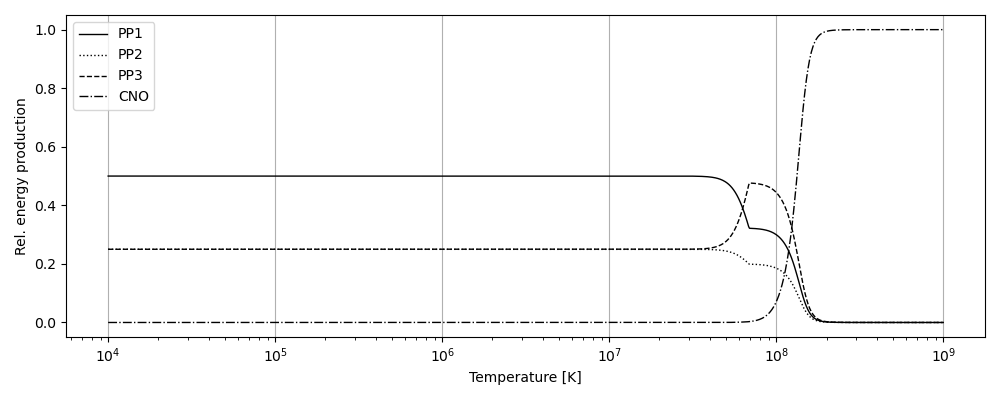
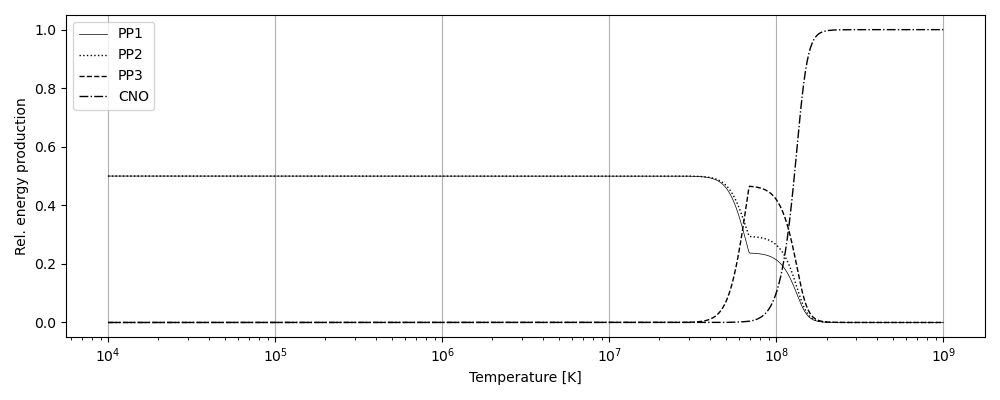
I think I fixed it

diff --git a/project-1/rel_energy_Gamow.py b/project-1/rel_energy_Gamow.py
@@ -28,21 +28,21 @@ for i in range(N_steps):
 	star = EnergyProduction(T[i], rho_sun)
 	star.run_all_cycles()
 
-	E_tot = 4 * star.PP0 + star.PP1 + np.sum(star.PP2) + np.sum(star.PP3) + star.CNO
+	E_tot = 2 * star.PP0 + star.PP1 + np.sum(star.PP2) + np.sum(star.PP3) + star.CNO
 
 	E_rel[0, i] = star.PP0 / E_tot							# PP0 rel. energy 		(Excluded from plot as it is common for all PP branches)
-	E_rel[1, i] = (2 * star.PP0 + star.PP1) / E_tot			# PP1 rel. energy
+	E_rel[1, i] = (star.PP0 + star.PP1) / E_tot			# PP1 rel. energy
 	E_rel[2, i] = (star.PP0 + np.sum(star.PP2)) / E_tot		# PP2 rel. energy
-	E_rel[3, i] = (star.PP0 + np.sum(star.PP3)) / E_tot					# PP3 rel. energy
+	E_rel[3, i] = (np.sum(star.PP3)) / E_tot		# PP3 rel. energy
 	E_rel[4, i] = star.CNO / E_tot							# CNO rel. energy
 
 plt.figure(figsize=(10, 4))
 
 # plt.plot(T, E_rel[0, :], lw=1, ls=(0, (3, 1, 1, 1, 1, 1)), color='black', label='PP0')
-plt.plot(T, E_rel[1, :], lw=1, ls='solid', color='black', label='PP1')
+plt.plot(T, E_rel[1, :], lw=.5, ls='solid', color='black', label='PP1')
 plt.plot(T, E_rel[2, :], lw=1, ls='dotted', color='black', label='PP2')
 plt.plot(T, E_rel[3, :], lw=1, ls='dashed', color='black', label='PP3')
-plt.plot(T, E_rel[4, :], lw=1, ls='dashdot', color='black', label=r'CNO')
+plt.plot(T, E_rel[4, :], lw=1, ls='dashdot', color='black', label='CNO')
 
 plt.xscale('log')
 plt.xlabel('Temperature [K]')
